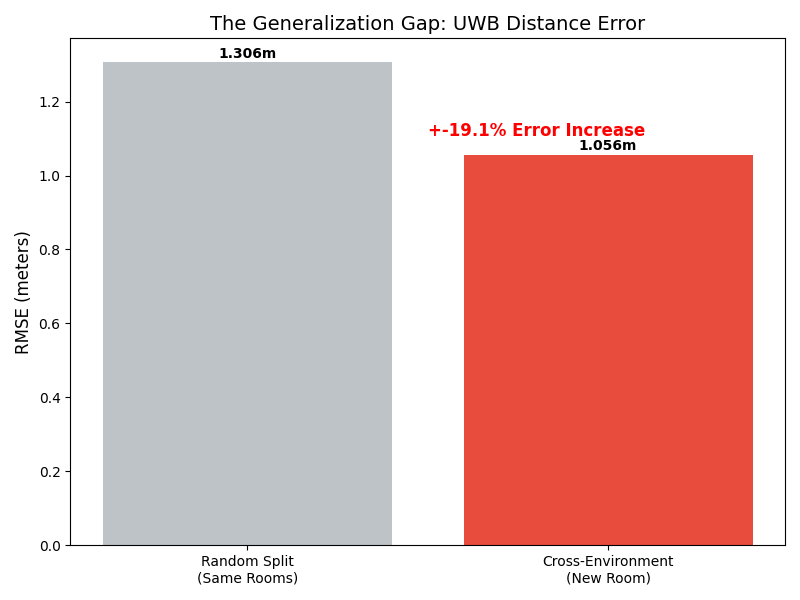
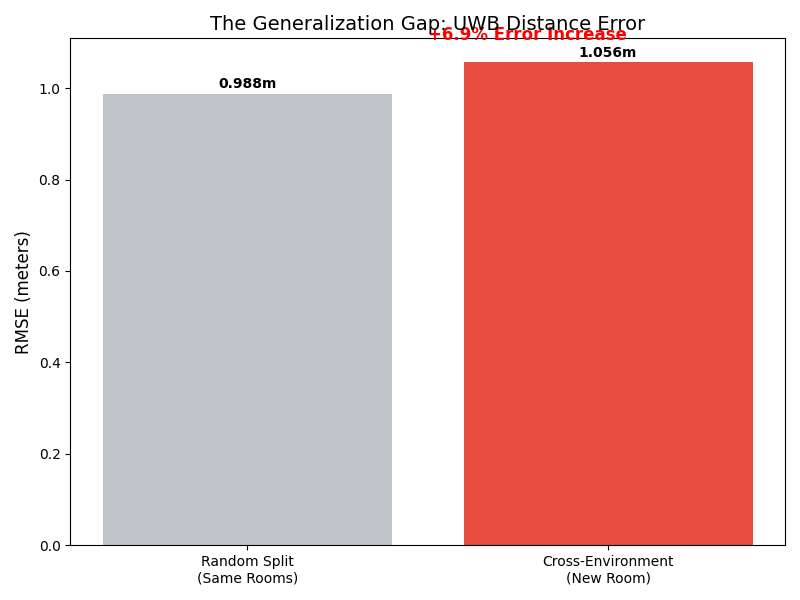
new performance drop comparison for cross env validation

diff --git a/src/cross_env_validation.py b/src/cross_env_validation.py
@@ -11,8 +11,7 @@ PROJECT_ROOT = os.path.abspath(os.path.join(SCRIPT_DIR, '..'))
 CLEANED_DATA_PATH = os.path.join(PROJECT_ROOT, 'data', 'processed', 'cleaned_data.csv')
 METRICS_DIR = os.path.join(PROJECT_ROOT, 'results', 'metrics')
 
-# ENVIRONMENT MAPPING
-# This maps your filenames to the actual names programmatically
+# ENVIRONMENT MAPPING: map filename to actual name
 ENV_NAMES = {
     'uwb_dataset_part1.csv': 'Office 1',
     'uwb_dataset_part2.csv': 'Office 2',
@@ -76,7 +75,7 @@ for i, file_name in enumerate(files):
         preds = reg.predict(X_test_r)
         rmse = np.sqrt(mean_squared_error(y_test_r_los, preds))
     
-    # Store results using the ACTUAL name
+    # Store results using the actual name
     results.append({
         'Environment': actual_name,
         'Classifier_Accuracy': clf_acc,
@@ -100,11 +99,11 @@ print("\n========== Generating Visualizations ==========")
 
 # CHART 1: Accuracy per Environment (Classifier)
 plt.figure(figsize=(12, 6))
-# Create colors for each bar
+# Colors for each bar
 colors = plt.cm.Paired(np.linspace(0, 1, len(loeo_df)))
 bars = plt.bar(loeo_df['Environment'], loeo_df['Classifier_Accuracy'], color=colors)
 
-# Add a dashed line for the average
+# Average
 avg_acc = loeo_df['Classifier_Accuracy'].mean()
 plt.axhline(y=avg_acc, color='red', linestyle='--', alpha=0.6, label=f'Average: {avg_acc:.2f}')
 
@@ -130,7 +129,7 @@ RANDOM_METRICS_PATH = os.path.join(PROJECT_ROOT, 'results', 'metrics', 'regressi
 if os.path.exists(RANDOM_METRICS_PATH):
     random_results = pd.read_csv(RANDOM_METRICS_PATH)
     try:
-        # Get baseline from teammate's RandomForest results
+        # Get baseline from RandomForest results
         avg_random_rmse = random_results[random_results['model'] == 'RandomForest']['rmse'].values[0]
         avg_cross_rmse = loeo_df['Regression_RMSE'].mean()
 
@@ -178,7 +177,6 @@ if os.path.exists(RANDOM_METRICS_PATH):
         print("INSIGHT: The model generalizes well to new environments.")
 
 # Find the hardest environment
-# We use 'Regression_RMSE' because that's what we named it in the results append earlier
 hardest_env = loeo_df.loc[loeo_df['Regression_RMSE'].idxmax()]
 easiest_env = loeo_df.loc[loeo_df['Regression_RMSE'].idxmin()]
 
